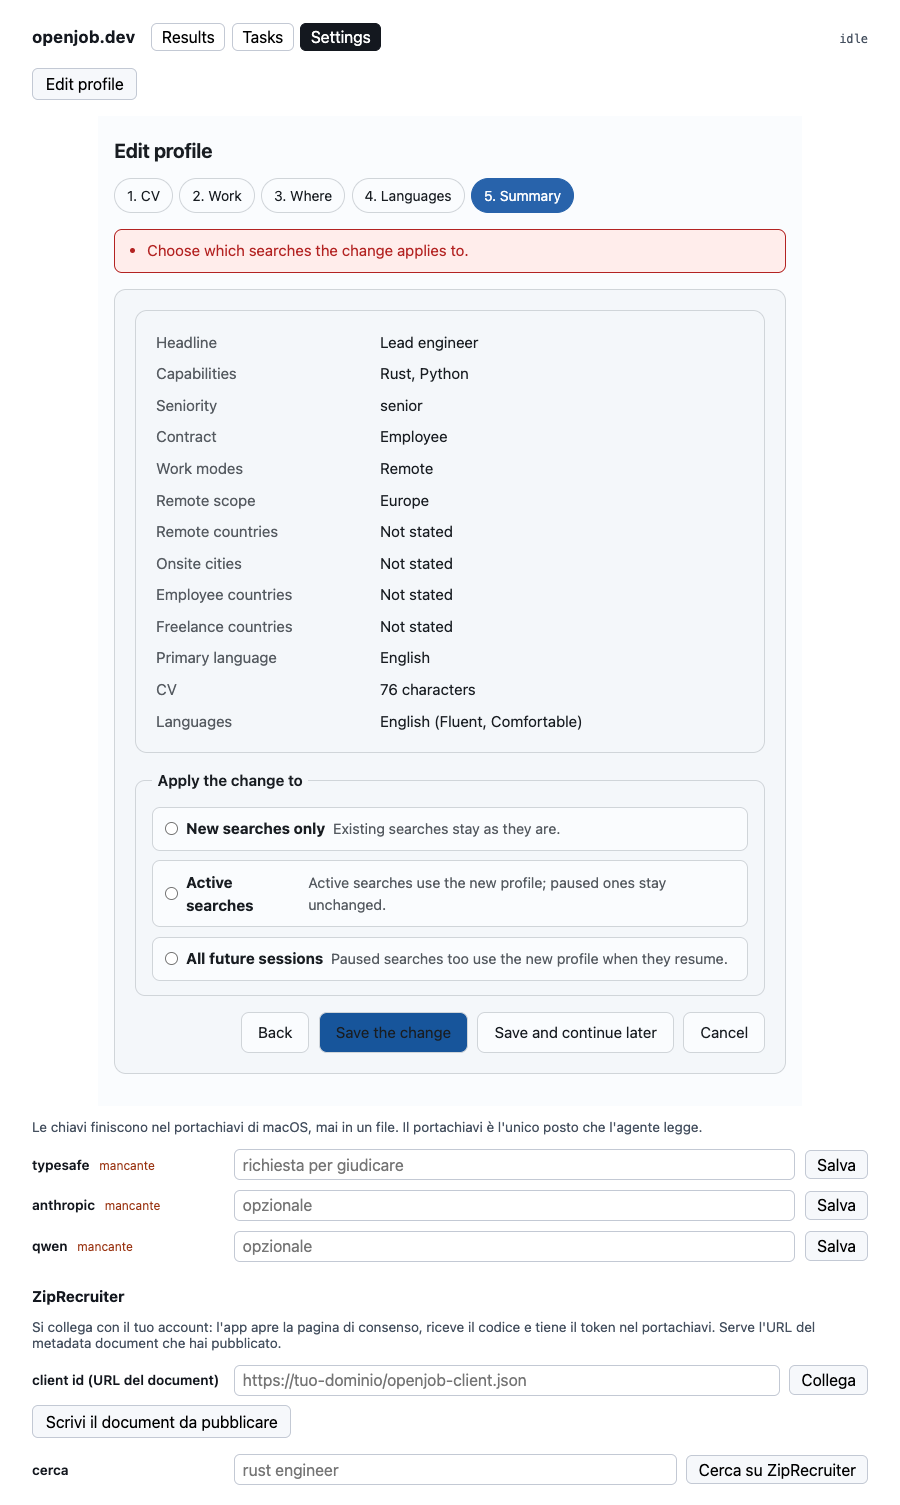
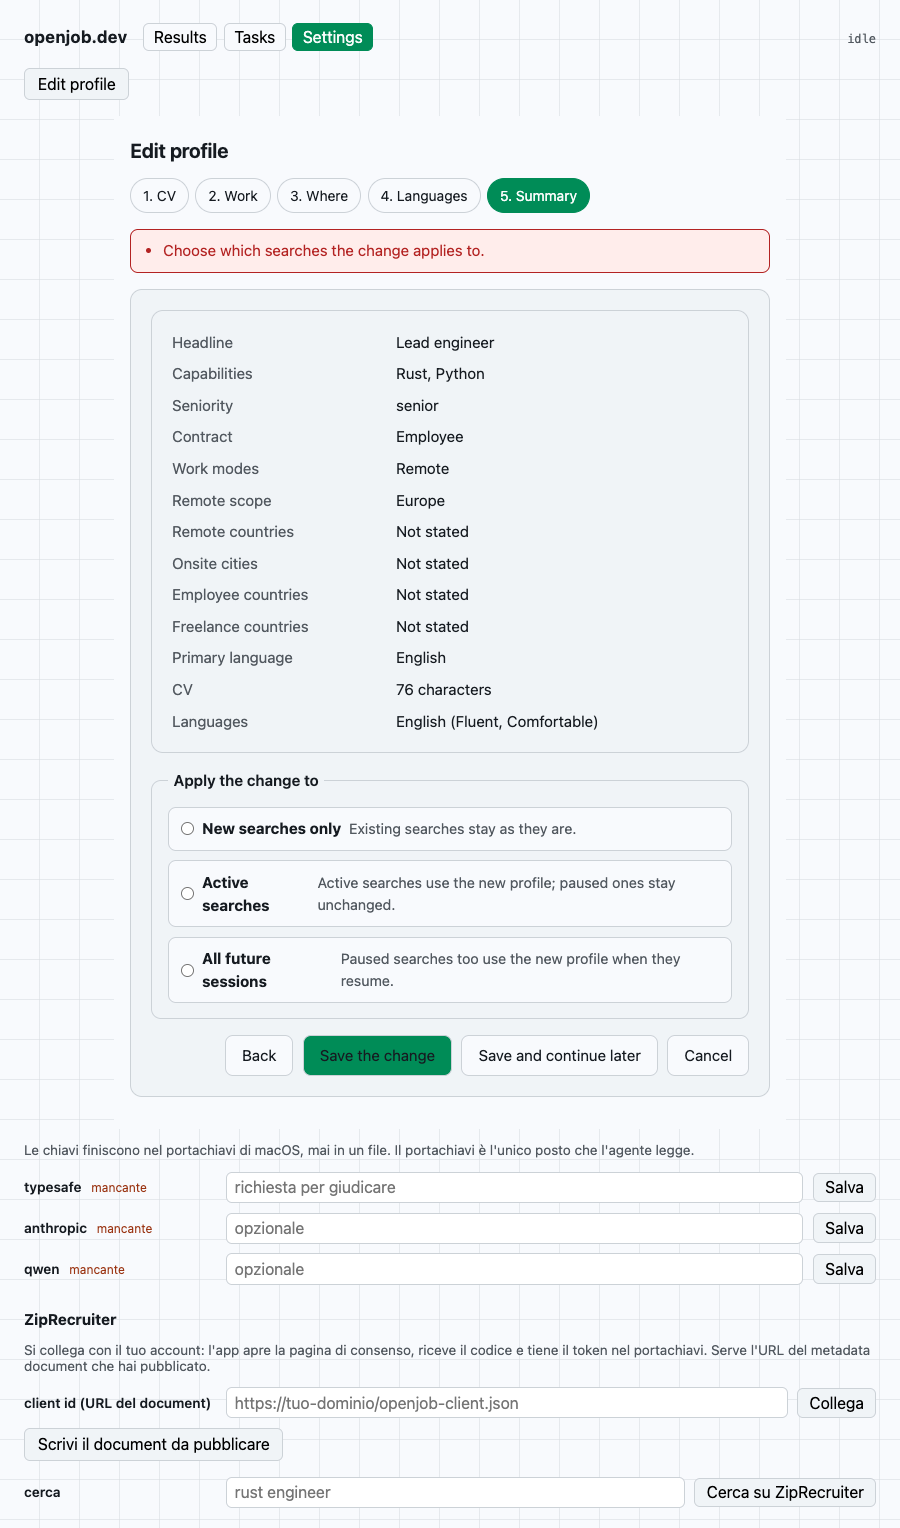
style(app): use the site's green palette and design tokens
The app reads the same design tokens as the download site, so one change in the tokens
recolours both. The navigation, the wizard and the page background use them.

The browser test passes 24 of 24, and the screenshots are refreshed.

diff --git a/poc/session-poc/ui/src/App.vue b/poc/session-poc/ui/src/App.vue
@@ -495,7 +495,7 @@ onMounted(() => {
 main {
   font-family: ui-sans-serif, system-ui, sans-serif;
   margin: 1.25rem 1.5rem;
-  color: #14181f;
+  color: var(--fg);
 }
 header {
   display: flex;
@@ -519,33 +519,33 @@ nav button {
   font: inherit;
   padding: 0.25rem 0.6rem;
   border-radius: 6px;
-  border: 1px solid #c3c9d4;
-  background: #fff;
+  border: 1px solid var(--border);
+  background: var(--bg);
   cursor: pointer;
 }
 nav button.on {
-  background: #14181f;
-  color: #fff;
-  border-color: #14181f;
+  background: var(--accent);
+  color: var(--accent-fg);
+  border-color: var(--accent);
 }
 .status {
   margin-left: auto;
   font-family: ui-monospace, monospace;
   font-size: 0.75rem;
-  color: #45505f;
+  color: var(--fg-muted);
 }
 .hint {
   font-size: 0.78rem;
-  color: #8a93a1;
+  color: var(--fg-muted);
   margin: 0 0 0.8rem;
 }
 .meta {
   font-size: 0.85rem;
-  color: #45505f;
+  color: var(--fg-muted);
 }
 .empty {
   font-size: 0.9rem;
-  color: #45505f;
+  color: var(--fg-muted);
   max-width: 42rem;
 }
 .results {
@@ -557,19 +557,19 @@ nav button.on {
   display: flex;
   gap: 0.9rem;
   padding: 0.7rem 0;
-  border-bottom: 1px solid #e3e7ee;
+  border-bottom: 1px solid var(--border);
 }
 .score {
   font-weight: 700;
   font-variant-numeric: tabular-nums;
-  color: #475569;
+  color: var(--fg-muted);
   min-width: 3.2rem;
 }
 .score.good {
   color: #166534;
 }
 .body a {
-  color: #1d4ed8;
+  color: var(--accent);
   font-weight: 600;
   text-decoration: none;
 }
@@ -579,7 +579,7 @@ nav button.on {
 .sub {
   margin: 0.15rem 0 0;
   font-size: 0.8rem;
-  color: #45505f;
+  color: var(--fg-muted);
 }
 .gap {
   margin: 0.15rem 0 0;
@@ -588,19 +588,19 @@ nav button.on {
 }
 .dropped {
   font-size: 0.8rem;
-  color: #45505f;
+  color: var(--fg-muted);
 }
 .chip {
   display: inline-block;
   margin-right: 0.4rem;
   padding: 0 0.4rem;
   border-radius: 9999px;
-  background: #f1f5f9;
+  background: var(--bg-raised);
 }
 .path {
   font-family: ui-monospace, monospace;
   font-size: 0.7rem;
-  color: #8a93a1;
+  color: var(--fg-muted);
   margin-top: 1.2rem;
 }
 .keyrow {
@@ -617,15 +617,15 @@ nav button.on {
 .keyrow input {
   padding: 0.35rem 0.5rem;
   font: inherit;
-  border: 1px solid #c3c9d4;
+  border: 1px solid var(--border);
   border-radius: 6px;
 }
 .keyrow button {
   font: inherit;
   padding: 0.3rem 0.7rem;
   border-radius: 6px;
-  border: 1px solid #c3c9d4;
-  background: #f6f8fb;
+  border: 1px solid var(--border);
+  background: var(--bg-raised);
   cursor: pointer;
 }
 .ok {
@@ -649,8 +649,8 @@ nav button.on {
   font: inherit;
   padding: 0.4rem 0.8rem;
   border-radius: 6px;
-  border: 1px solid #c3c9d4;
-  background: #f6f8fb;
+  border: 1px solid var(--border);
+  background: var(--bg-raised);
   cursor: pointer;
 }
 table {
@@ -662,7 +662,7 @@ th,
 td {
   text-align: left;
   padding: 0.35rem 0.5rem;
-  border-bottom: 1px solid #e3e7ee;
+  border-bottom: 1px solid var(--border);
 }
 .keyring {
   font-size: 0.85rem;
@@ -670,7 +670,7 @@ td {
 code {
   font-family: ui-monospace, monospace;
   font-size: 0.85em;
-  background: #f1f5f9;
+  background: var(--bg-raised);
   padding: 0 0.25rem;
   border-radius: 4px;
 }

diff --git a/poc/session-poc/ui/src/styles/tokens.css b/poc/session-poc/ui/src/styles/tokens.css
@@ -1,0 +1,72 @@
+/*
+ * Design tokens shared with the download site. Change a colour or a font here and the whole app follows.
+ * Light is the default; dark follows the system setting, and [data-theme] forces either one.
+ */
+:root {
+  /* colour */
+  --bg: oklch(0.985 0.004 250);
+  --bg-raised: oklch(0.965 0.006 250);
+  --fg: oklch(0.22 0.014 250);
+  --fg-muted: oklch(0.46 0.014 250);
+  --border: oklch(0.86 0.01 250);
+  --accent: oklch(0.56 0.14 160);
+  --accent-fg: oklch(0.99 0.003 160);
+  --accent-soft: oklch(0.94 0.04 160);
+  --code-bg: oklch(0.94 0.008 250);
+  --focus: oklch(0.6 0.16 160);
+  --grid-line: oklch(0.9 0.008 250 / 0.6);
+  /* type */
+  --font-sans: ui-sans-serif, -apple-system, BlinkMacSystemFont, "Segoe UI", system-ui, sans-serif;
+  --font-mono: ui-monospace, "SF Mono", Menlo, Consolas, "Liberation Mono", monospace;
+  --text-sm: 0.875rem;
+  --text-base: 1rem;
+  --text-lg: 1.2rem;
+  --text-xl: 1.5rem;
+  --text-2xl: clamp(1.9rem, 1.2rem + 3vw, 3rem);
+  /* shape and space */
+  --radius: 12px;
+  --radius-sm: 8px;
+  --gap: 1rem;
+  --page: 62rem;
+}
+@media (prefers-color-scheme: dark) {
+  :root:not([data-theme="light"]) {
+    --bg: oklch(0.19 0.012 250);
+    --bg-raised: oklch(0.23 0.012 250);
+    --fg: oklch(0.94 0.008 250);
+    --fg-muted: oklch(0.72 0.01 250);
+    --border: oklch(0.36 0.012 250);
+    --accent: oklch(0.74 0.15 160);
+    --accent-fg: oklch(0.19 0.012 250);
+    --accent-soft: oklch(0.28 0.05 160);
+    --code-bg: oklch(0.15 0.01 250);
+    --focus: oklch(0.8 0.14 160);
+    --grid-line: oklch(0.3 0.012 250 / 0.5);
+  }
+}
+:root[data-theme="dark"] {
+  --bg: oklch(0.19 0.012 250);
+  --bg-raised: oklch(0.23 0.012 250);
+  --fg: oklch(0.94 0.008 250);
+  --fg-muted: oklch(0.72 0.01 250);
+  --border: oklch(0.36 0.012 250);
+  --accent: oklch(0.74 0.15 160);
+  --accent-fg: oklch(0.19 0.012 250);
+  --accent-soft: oklch(0.28 0.05 160);
+  --code-bg: oklch(0.15 0.01 250);
+  --focus: oklch(0.8 0.14 160);
+  --grid-line: oklch(0.3 0.012 250 / 0.5);
+}
+
+* { box-sizing: border-box; }
+body {
+  margin: 0;
+  font-family: var(--font-sans);
+  color: var(--fg);
+  background-color: var(--bg);
+  background-image:
+    linear-gradient(var(--grid-line) 1px, transparent 1px),
+    linear-gradient(90deg, var(--grid-line) 1px, transparent 1px);
+  background-size: 2.5rem 2.5rem;
+  background-position: -1px -1px;
+}

diff --git a/poc/session-poc/ui/src/onboarding/OnboardingWizard.vue b/poc/session-poc/ui/src/onboarding/OnboardingWizard.vue
@@ -570,18 +570,16 @@ const applyHelp = (scope: ApplyScope): string => t(`apply.${scope}.help` as Mess
 <style scoped>
 /* Restrained palette: tinted neutrals and one accent. Dark mode follows the system setting. */
 .wizard {
-  --surface: oklch(0.99 0.003 250);
-  --panel: oklch(0.975 0.005 250);
-  --ink: oklch(0.23 0.012 250);
-  --muted: oklch(0.47 0.012 250);
-  --line: oklch(0.87 0.008 250);
-  --accent: oklch(0.5 0.13 255);
-  --accent-hover: oklch(0.45 0.13 255);
-  --on-accent: oklch(0.99 0.003 250);
-  --focus: oklch(0.6 0.15 255);
+  --surface: var(--bg);
+  --panel: var(--bg-raised);
+  --ink: var(--fg);
+  --muted: var(--fg-muted);
+  --line: var(--border);
+  --accent-hover: var(--accent);
+  --on-accent: var(--accent-fg);
   --danger: oklch(0.5 0.18 27);
   --danger-tint: oklch(0.96 0.02 27);
-  --info-tint: oklch(0.96 0.02 250);
+  --info-tint: var(--accent-soft);
   max-width: 42rem;
   margin: 0 auto;
   padding: 1.25rem 1rem 2rem;
@@ -595,18 +593,8 @@ const applyHelp = (scope: ApplyScope): string => t(`apply.${scope}.help` as Mess
 }
 @media (prefers-color-scheme: dark) {
   .wizard {
-    --surface: oklch(0.2 0.01 250);
-    --panel: oklch(0.24 0.01 250);
-    --ink: oklch(0.94 0.008 250);
-    --muted: oklch(0.72 0.01 250);
-    --line: oklch(0.37 0.01 250);
-    --accent: oklch(0.7 0.12 255);
-    --accent-hover: oklch(0.76 0.12 255);
-    --on-accent: oklch(0.2 0.01 250);
-    --focus: oklch(0.78 0.13 255);
     --danger: oklch(0.78 0.14 27);
     --danger-tint: oklch(0.28 0.04 27);
-    --info-tint: oklch(0.28 0.03 250);
   }
 }
 

diff --git a/poc/session-poc/ui/src/main.ts b/poc/session-poc/ui/src/main.ts
@@ -1,5 +1,6 @@
 import { createApp } from 'vue';
 
+import './styles/tokens.css';
 import App from './App.vue';
 
 createApp(App).mount('#app');
